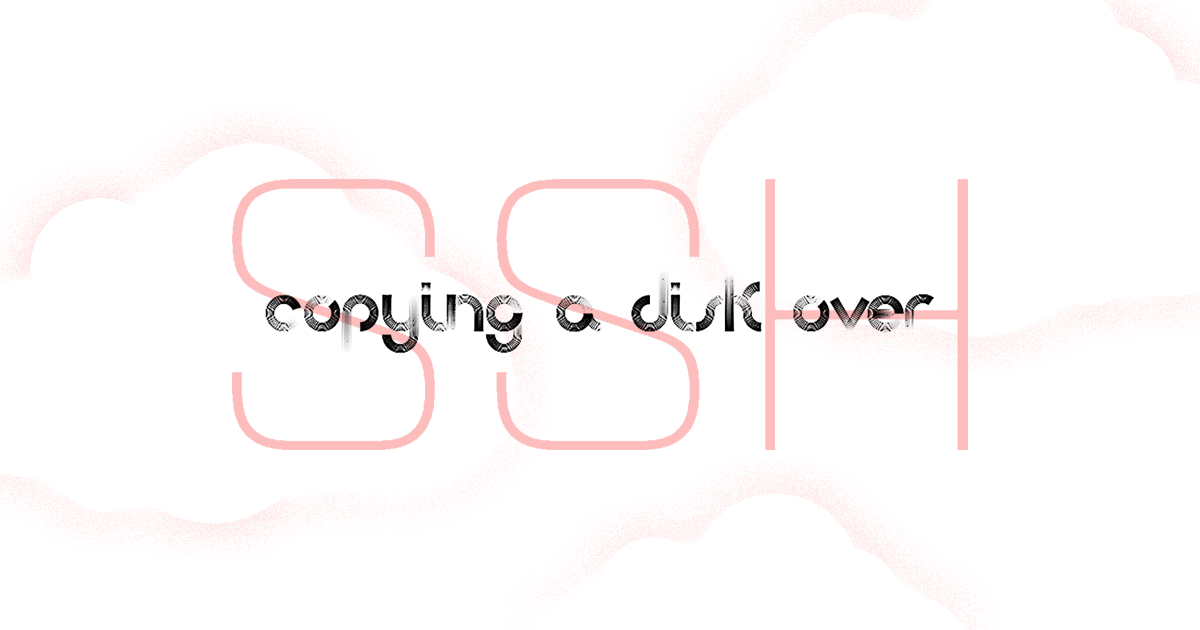
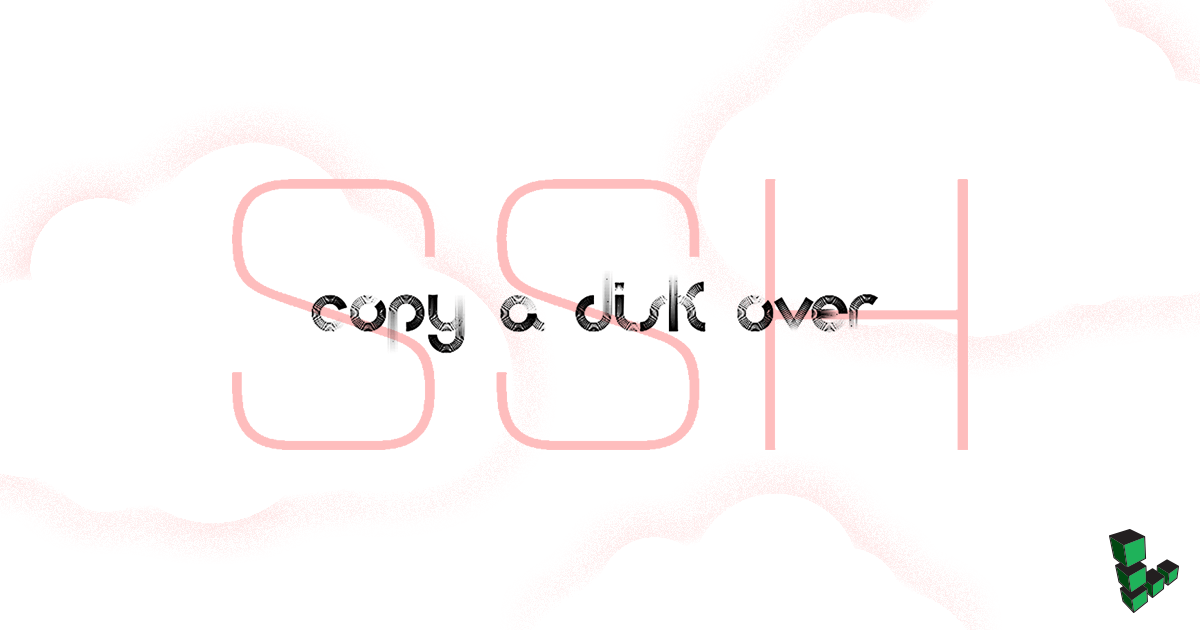
Updated title graphics

Changed region(s): [[0.2158, 0.4222, 0.7708, 0.573], [0.925, 0.8444, 0.9867, 0.9651]]

diff --git a/docs/platform/disk-images/copying-a-disk-image-over-ssh/index.md b/docs/platform/disk-images/copying-a-disk-image-over-ssh/index.md
@@ -13,7 +13,7 @@ published: 2012-06-04
 title: "Copy a Disk Over SSH"
 ---
 
-<!-- ![Copy a Disk Over SSH](copying_a_disk_over_ssh_smg.png "Copy a Disk Over SSH")-->
+![Copy a Disk Over SSH](copying_a_disk_over_ssh_smg.png "Copy a Disk Over SSH")
 
 Piping SSH commands to utilities such as `dd`, `gzip`, or `rsync` is an easy way to copy a Linode's data into a single file for later extraction. This can effectively back up your Linode's disk or migrate your installed system among Linodes.
 

diff --git a/docs/networking/ssh/using-ssh-on-windows/index.md b/docs/networking/ssh/using-ssh-on-windows/index.md
@@ -13,7 +13,7 @@ published: 2009-09-20
 title: Using SSH on Windows
 ---
 
-<!-- ![Using PuTTY](using-putty.png "Using PuTTY")-->
+![Using SSH on Windows](using-ssh-on-windows.png "Using SSH on Windows")
 
 ## OpenSSH
 As of late 2018, [OpenSSH](https://docs.microsoft.com/en-us/windows-server/administration/openssh/openssh_overview) is included with some versions of Windows.
